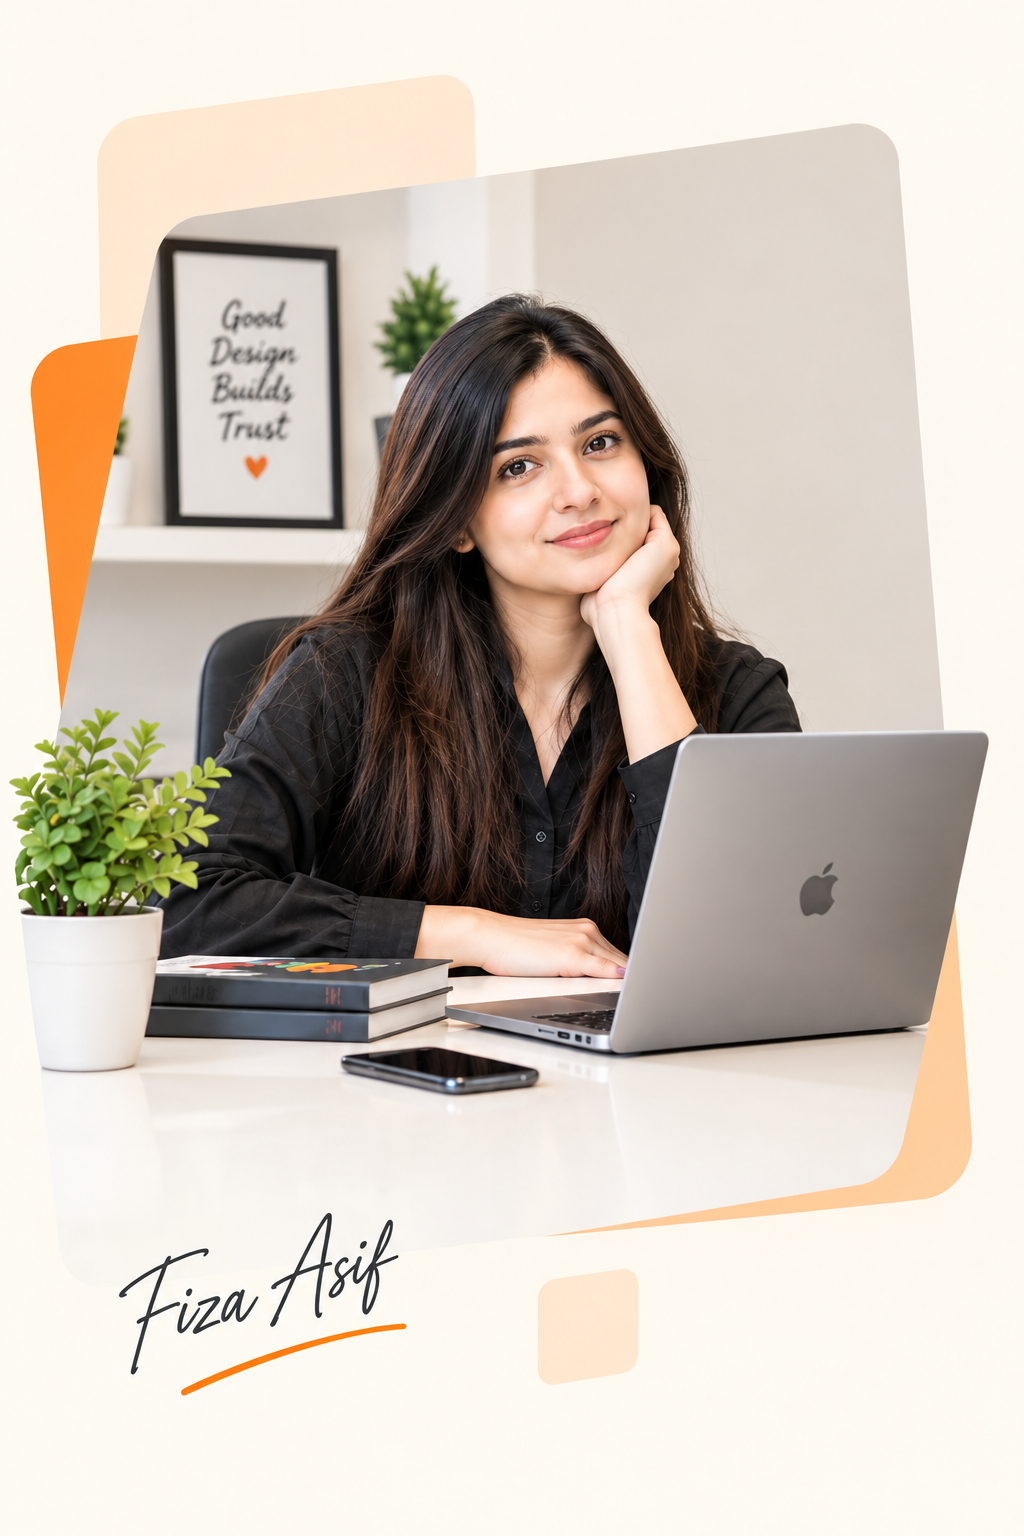
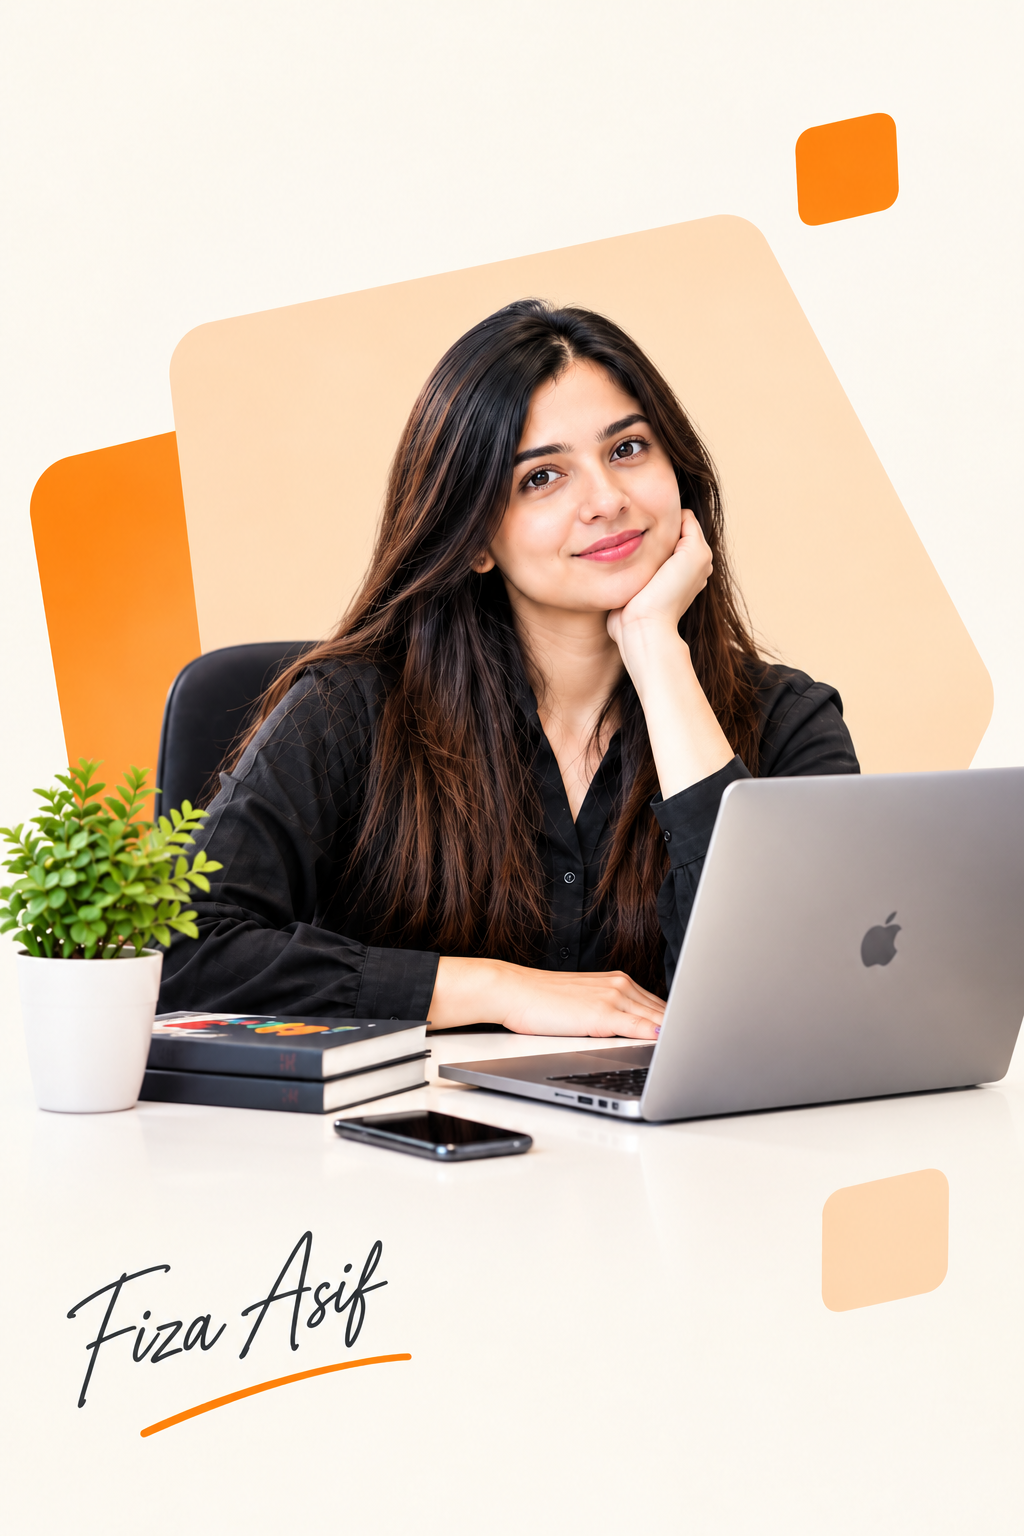
update

diff --git a/src/data.ts b/src/data.ts
@@ -1,58 +1,223 @@
+import {
+  ArrowLeftRight,
+  Code,
+  Code2,
+  Monitor,
+  MousePointerClick,
+  Package,
+  PanelsTopLeft,
+  RefreshCw,
+  Search,
+  ShoppingBag,
+  Store,
+  Wrench,
+} from 'lucide-react';
+
 export const services = [
   {
-    id: 1,
-    icon: 'Palette',
-    title: 'WordPress Development',
-    description: 'Professional WordPress websites for businesses, corporate companies and personal brands, built with responsive layouts, clear structure and easy content management.',
-    features: ['Business & Corporate Websites', 'Responsive WordPress Design', 'Elementor, Divi & Avada', 'SEO & Performance Optimization'],
-    price: 'Starting at custom quote',
-    image: '/wordpress.jpg',
+    title: "Web Development",
+    slug: "web-development",
+    icon: Code2,
+    image: "/web-development.jpg",
+    description:
+      "Professional web development services to build modern, responsive, and user-friendly websites for businesses, professionals, and online brands. I develop websites with clean layouts, reliable functionality, mobile-friendly designs, and SEO-friendly structure to help you establish a strong online presence.",
+    features: [
+      "Responsive Website Development",
+      "Business Website Development",
+      "Custom Website Functionality",
+      "Mobile-Friendly Layouts",
+      "SEO-Friendly Structure",
+      "Website Performance Optimization"
+    ],
+    price: "Starting at custom quote"
   },
   {
-    id: 2,
-    icon: 'Monitor',
-    title: 'Shopify Development',
-    description: 'Professional Shopify stores with responsive storefronts, organized product layouts and a smooth shopping experience for growing online businesses.',
-    features: ['Shopify Store Setup', 'Product & Collection Structure', 'Theme Customization', 'Responsive Storefront'],
-    price: 'Starting at custom quote',
-    image: '/shopify.jpg',
+    title: "WordPress Development",
+    slug: "wordpress-development",
+    icon: PanelsTopLeft,
+    image: "/wordpress.jpg",
+    description:
+      "Get a professional WordPress website tailored to your business goals. I provide WordPress development using Elementor, popular themes, and suitable plugins to create responsive business websites, blogs, portfolios, and online stores that are easy to manage and optimized for search engines.",
+    features: [
+      "WordPress Website Development",
+      "Elementor Website Design",
+      "Theme Setup and Customization",
+      "WooCommerce Integration",
+      "Responsive WordPress Layouts",
+      "WordPress Bug Fixes and Optimization"
+    ],
+    price: "Starting at custom quote"
   },
   {
-    id: 3,
-    icon: 'Smartphone',
-    title: 'eCommerce Development',
-    description: 'Scalable online stores built with WooCommerce or Shopify, designed around product discovery, easy navigation and a smooth shopping experience.',
-    features: ['WooCommerce Development', 'Product & Category Setup', 'Cart & Checkout', 'Responsive Store Design'],
-    price: 'Starting at custom quote',
-    image: '/eCommerce%20Development.jpg',
+    title: "Website Redesign",
+    slug: "website-redesign",
+    icon: RefreshCw,
+    image: "/redesign.jpg",
+    description:
+      "Transform an outdated website into a modern, professional, and responsive online experience. My website redesign services improve visual consistency, content structure, navigation, mobile usability, and performance while helping your business present a stronger and more credible brand online.",
+    features: [
+      "Website Redesign and Revamp",
+      "Modern Layout and Styling",
+      "Mobile Responsiveness Improvements",
+      "Navigation and Content Structure",
+      "Elementor Website Customization",
+      "Performance and SEO Improvements"
+    ],
+    price: "Starting at custom quote"
   },
   {
-    id: 4,
-    icon: 'ShoppingBag',
-    title: 'Website Redesign',
-    description: 'Modernize an outdated website with cleaner layouts, better responsiveness, improved usability and a structure built around your current business goals.',
-    features: ['Website Redesign', 'Responsive Improvements', 'Content Restructuring', 'SEO-Friendly Structure'],
-    price: 'Starting at custom quote',
-    image: '/redesign.jpg',
+    title: "Shopify Development",
+    slug: "shopify-development",
+    icon: ShoppingBag,
+    image: "/shopify.jpg",
+    description:
+      "Launch or improve your online store with Shopify development tailored to your products and business needs. I help set up and customize Shopify stores with professional themes, organized product pages, responsive layouts, and essential eCommerce features to create a smooth shopping experience.",
+    features: [
+      "Shopify Store Setup",
+      "Shopify Theme Customization",
+      "Product and Collection Setup",
+      "Responsive Store Design",
+      "Navigation and Store Organization",
+      "Essential eCommerce Functionality"
+    ],
+    price: "Starting at custom quote"
   },
   {
-    id: 5,
-    icon: 'Sparkles',
-    title: 'Landing Page Development',
-    description: 'Focused landing pages for services, campaigns and lead generation with clear messaging, responsive layouts and strong calls to action.',
-    features: ['Business Landing Pages', 'Lead Generation', 'Conversion-Focused Layout', 'Mobile Responsive Design'],
-    price: 'Starting at custom quote',
-    image: '/landing.jpg',
+    title: "eCommerce Development",
+    slug: "ecommerce-development",
+    icon: Store,
+    image: "/eCommerce%20Development.jpg",
+    description:
+      "Build a functional online store that makes it easier for customers to browse products and complete purchases. My eCommerce development services include store setup, product organization, shopping cart configuration, payment integration support, and responsive layouts using suitable platforms such as WooCommerce and Shopify.",
+    features: [
+      "Online Store Development",
+      "WooCommerce Store Setup",
+      "Shopify eCommerce Setup",
+      "Product and Category Organization",
+      "Shopping Cart and Checkout Setup",
+      "Payment Gateway Integration Support"
+    ],
+    price: "Starting at custom quote"
   },
   {
-    id: 6,
-    icon: 'Search',
-    title: 'Website SEO & Optimization',
-    description: 'Improve your website’s technical and on-page foundations with better structure, metadata, image optimization, internal linking and performance improvements.',
-    features: ['On-Page SEO', 'Technical SEO Foundations', 'Image Optimization', 'Website Performance'],
-    price: 'Starting at custom quote',
-    image: '/seo.jpg',
+    title: "Wix Website Development",
+    slug: "wix-website-development",
+    icon: Monitor,
+    image: "/wix.jpg",
+    description:
+      "Create a polished and easy-to-manage website with Wix. I build and customize Wix websites for small businesses, service providers, personal brands, and portfolios, with responsive layouts, clear navigation, engaging content sections, and SEO-friendly page structure to support your online visibility.",
+    features: [
+      "Wix Website Setup",
+      "Wix Template Customization",
+      "Business and Portfolio Websites",
+      "Mobile-Friendly Design",
+      "Contact Forms and Essential Integrations",
+      "Basic On-Page SEO Setup"
+    ],
+    price: "Starting at custom quote"
   },
+  {
+    title: "Landing Page Development",
+    slug: "landing-page-development",
+    icon: MousePointerClick,
+    image: "/landing.jpg",
+    description:
+      "Get a focused, conversion-oriented landing page designed around your campaign or business goal. I create responsive landing pages with compelling headlines, clear calls to action, structured content, and lead capture forms to support marketing campaigns, service inquiries, product launches, and lead generation.",
+    features: [
+      "Single-Page Landing Page Development",
+      "Lead Generation Form Setup",
+      "Call-to-Action Optimization",
+      "Mobile-Responsive Sections",
+      "Product and Service Landing Pages",
+      "Basic On-Page SEO"
+    ],
+    price: "Starting at custom quote"
+  },
+  {
+    title: "Custom Website Development",
+    slug: "custom-website-development",
+    icon: Code,
+    image: "/custom-website.jpg",
+    description:
+      "Get a website tailored to your specific requirements instead of relying on a generic layout. I customize website sections, page structures, styling, and functionality to match your goals, brand identity, and content needs, while focusing on responsive design, maintainable implementation, and a consistent user experience.",
+    features: [
+      "Custom Website Layouts",
+      "Tailored Page Sections",
+      "Website Feature Customization",
+      "Responsive Design Implementation",
+      "Third-Party Plugin Integration",
+      "Cross-Device Compatibility"
+    ],
+    price: "Starting at custom quote"
+  },
+  {
+    title: "Website SEO & Optimization",
+    slug: "website-seo-optimization",
+    icon: Search,
+    image: "/seo.jpg",
+    description:
+      "Improve your website's technical foundation and on-page SEO with practical optimization services. I help organize page titles, meta descriptions, headings, image alt text, internal links, and content structure while addressing relevant performance issues. These improvements can help search engines understand your pages and support a better user experience.",
+    features: [
+      "On-Page SEO Setup",
+      "SEO Titles and Meta Descriptions",
+      "Heading Structure Optimization",
+      "Image Alt Text Optimization",
+      "Internal Linking Improvements",
+      "Website Speed and Performance Checks"
+    ],
+    price: "Starting at custom quote"
+  },
+  {
+    title: "Website Maintenance & Bug Fixes",
+    slug: "website-maintenance-bug-fixes",
+    icon: Wrench,
+    image: "/maintenance.jpg",
+    description:
+      "Keep your website updated, functional, and reliable with website maintenance and troubleshooting services. I help resolve common WordPress and Elementor issues, fix layout problems, check plugin compatibility, and perform routine maintenance to reduce avoidable disruptions and keep your website running smoothly.",
+    features: [
+      "WordPress Website Maintenance",
+      "WordPress and Plugin Updates",
+      "Elementor Layout Bug Fixes",
+      "Common Website Error Troubleshooting",
+      "Backup Setup Assistance",
+      "Plugin Conflict Investigation"
+    ],
+    price: "Starting at custom quote"
+  },
+  {
+    title: "Website Migration",
+    slug: "website-migration",
+    icon: ArrowLeftRight,
+    image: "/migration.jpg",
+    description:
+      "Move your website to a new hosting provider, domain, or supported platform with careful planning and setup. My website migration services focus on transferring website files and databases where applicable, preserving important content, checking essential links, and testing key pages after migration to help minimize downtime and disruption.",
+    features: [
+      "WordPress Website Migration",
+      "Hosting-to-Hosting Transfers",
+      "Domain Migration Assistance",
+      "Website File and Database Transfer",
+      "Post-Migration Functionality Checks",
+      "Redirect and Link Checks Where Applicable"
+    ],
+    price: "Starting at custom quote"
+  },
+  {
+    title: "Digital Products",
+    slug: "digital-products",
+    icon: Package,
+    image: "/digital-products.jpg",
+    description:
+      "Present and sell digital products through a professional, easy-to-navigate online store. I can help set up digital product pages and suitable eCommerce functionality for items such as downloadable guides, eBooks, templates, digital planners, and other downloadable resources, depending on your chosen platform and required features.",
+    features: [
+      "Digital Product Store Setup",
+      "eBook and Downloadable Product Pages",
+      "Digital Template Listings",
+      "WooCommerce Digital Product Configuration",
+      "Product Categories and Organization",
+      "Checkout Setup for Digital Purchases"
+    ],
+    price: "Starting at custom quote"
+  }
 ];
 
 export const projects = [

diff --git a/src/components/Contact.tsx b/src/components/Contact.tsx
@@ -1,5 +1,5 @@
 import { useState } from 'react';
-import { Mail, MapPin, Phone, Send, CheckCircle2, Loader2, AlertCircle, ChevronDown } from 'lucide-react';
+import { Mail, MapPin, Phone, Clock, Send, CheckCircle2, Loader2, AlertCircle, ChevronDown } from 'lucide-react';
 import SectionHeading from './SectionHeading';
 import { useScrollReveal } from '@/hooks/useScrollReveal';
 import { services } from '@/data';
@@ -7,6 +7,7 @@ import { services } from '@/data';
 const contactInfo = [
   { icon: Mail, label: 'Email', value: 'fizawebstudio@gmail.com', href: 'mailto:fizawebstudio@gmail.com' },
   { icon: Phone, label: 'Phone', value: '+92 312 7195206', href: 'tel:+923127195206' },
+  { icon: Clock, label: 'Availability', value: 'Available anytime — replies within a few hours' },
   { icon: MapPin, label: 'Location', value: 'Pakistan, Lahore - Remote', href: '#' },
 ];
 
@@ -68,21 +69,30 @@ Whether you need a new WordPress website, Shopify store, landing page or improve
             </div>
 
             <div className="space-y-2.5">
-              {contactInfo.map((info, i) => (
-                <a
-                  key={i}
-                  href={info.href}
-                  className="flex items-center gap-3 p-3.5 rounded-xl bg-white border border-ink-100 hover:border-accent-500/30 transition-colors duration-300 group"
-                >
-                  <div className="w-10 h-10 rounded-xl bg-accent-500/10 group-hover:bg-accent-500 flex items-center justify-center transition-colors">
-                    <info.icon size={18} className="text-accent-500 group-hover:text-white transition-colors" />
+              {contactInfo.map((info, i) => {
+                const card = (
+                  <>
+                    <div className="w-10 h-10 rounded-xl bg-accent-500/10 group-hover:bg-accent-500 flex items-center justify-center transition-colors">
+                      <info.icon size={18} className="text-accent-500 group-hover:text-white transition-colors" />
+                    </div>
+                    <div>
+                      <div className="text-[10px] text-ink-400 font-medium uppercase tracking-wide">{info.label}</div>
+                      <div className="text-sm font-semibold text-ink-900">{info.value}</div>
+                    </div>
+                  </>
+                );
+                const className = "flex items-center gap-3 p-3.5 rounded-xl bg-white border border-ink-100 hover:border-accent-500/30 transition-colors duration-300 group";
+
+                return info.href ? (
+                  <a key={i} href={info.href} className={className}>
+                    {card}
+                  </a>
+                ) : (
+                  <div key={i} className={className}>
+                    {card}
                   </div>
-                  <div>
-                    <div className="text-[10px] text-ink-400 font-medium uppercase tracking-wide">{info.label}</div>
-                    <div className="text-sm font-semibold text-ink-900">{info.value}</div>
-                  </div>
-                </a>
-              ))}
+                );
+              })}
             </div>
           </div>
 

diff --git a/src/components/Hero.tsx b/src/components/Hero.tsx
@@ -1,5 +1,5 @@
 import { useEffect, useState } from 'react';
-import { ArrowRight, ArrowUpRight, ChartNoAxesColumnIncreasing, Monitor, ShoppingCart, Smartphone } from 'lucide-react';
+import { ArrowRight, ArrowUpRight, Monitor, SearchCheck, ShoppingCart, Smartphone } from 'lucide-react';
 
 const roles = ['WordPress Developer', 'Shopify Developer', 'Freelance Web Developer', 'eCommerce Website Developer'];
 
@@ -13,7 +13,7 @@ const highlights = [
   {
     title: 'SEO-Friendly',
     description: 'Speed Optimization',
-    Icon: ChartNoAxesColumnIncreasing,
+    Icon: SearchCheck,
     iconStyle: 'bg-emerald-100 text-emerald-600',
   },
   {

diff --git a/src/components/About.tsx b/src/components/About.tsx
@@ -12,7 +12,7 @@ export default function About() {
   const { ref, visible } = useScrollReveal();
 
   return (
-    <section id="about" className="relative bg-[#fefaf2] py-20 lg:py-28">
+    <section id="about" className="relative bg-[#fcf9f1] py-20 lg:py-28">
       <div className="max-w-7xl mx-auto px-6 lg:px-10">
         <div className="grid lg:grid-cols-12 gap-10 lg:gap-14 items-center">
           {/* Left: Image */}
